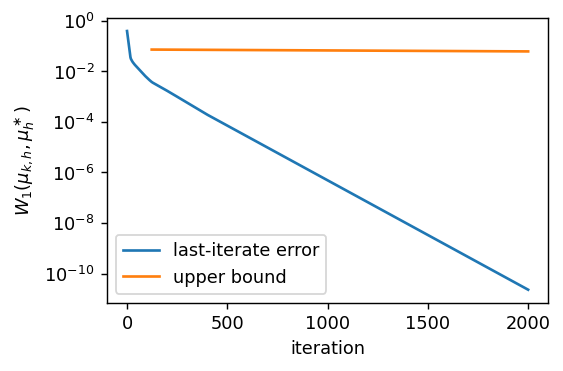
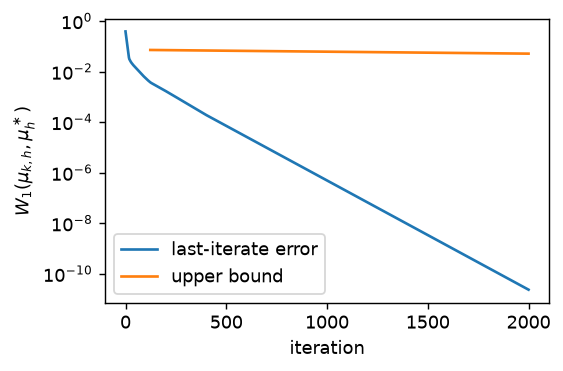
Update full-support convergence bound

diff --git a/uniform_equilibrium.py b/uniform_equilibrium.py
@@ -101,7 +101,7 @@ def main():
         LAM * ALPHA * delta_h**2 / 2.0,
         1.0 - LAM * L_M * D_OMEGA,
     )
-    contraction = 1.0 - gamma_h * m_h_star / 2.0
+    contraction = 1.0 - gamma_h * m_h_star
 
     # Certified entry index: first iterate inside the local reverse-KL region
     # D_KL(mu_h* || mu_{k,h}) <= (m_h*)^2 / 8 from item (3) of the theorem.
